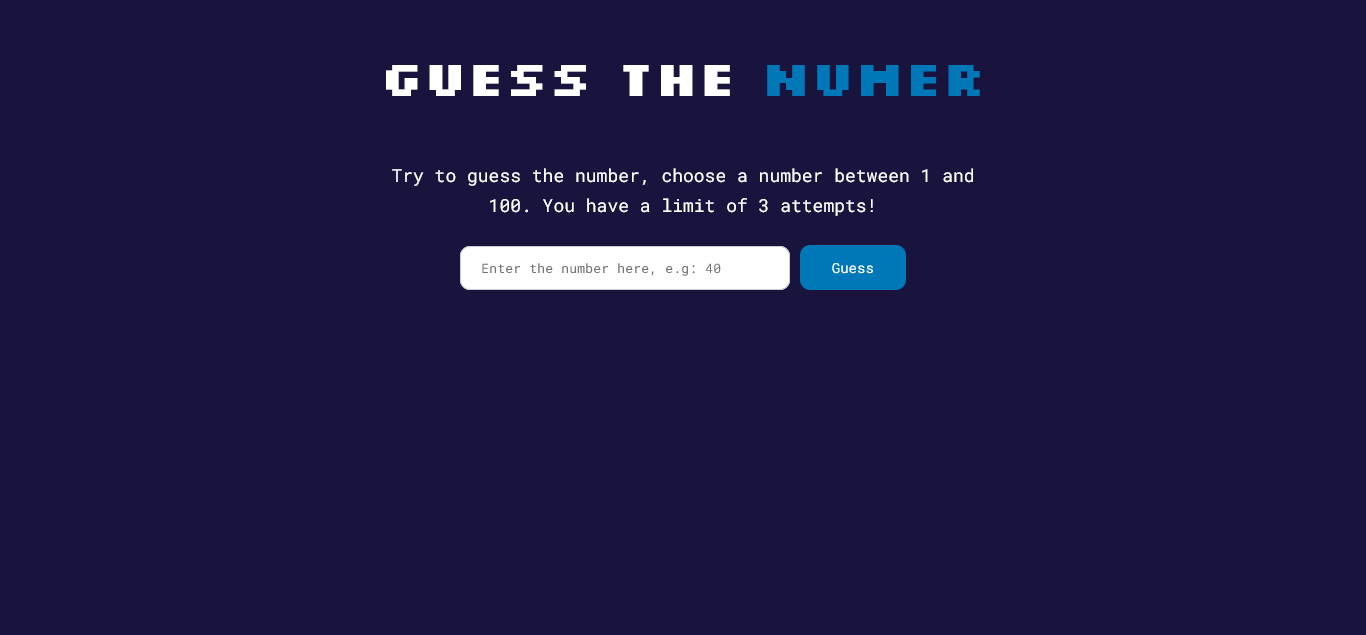
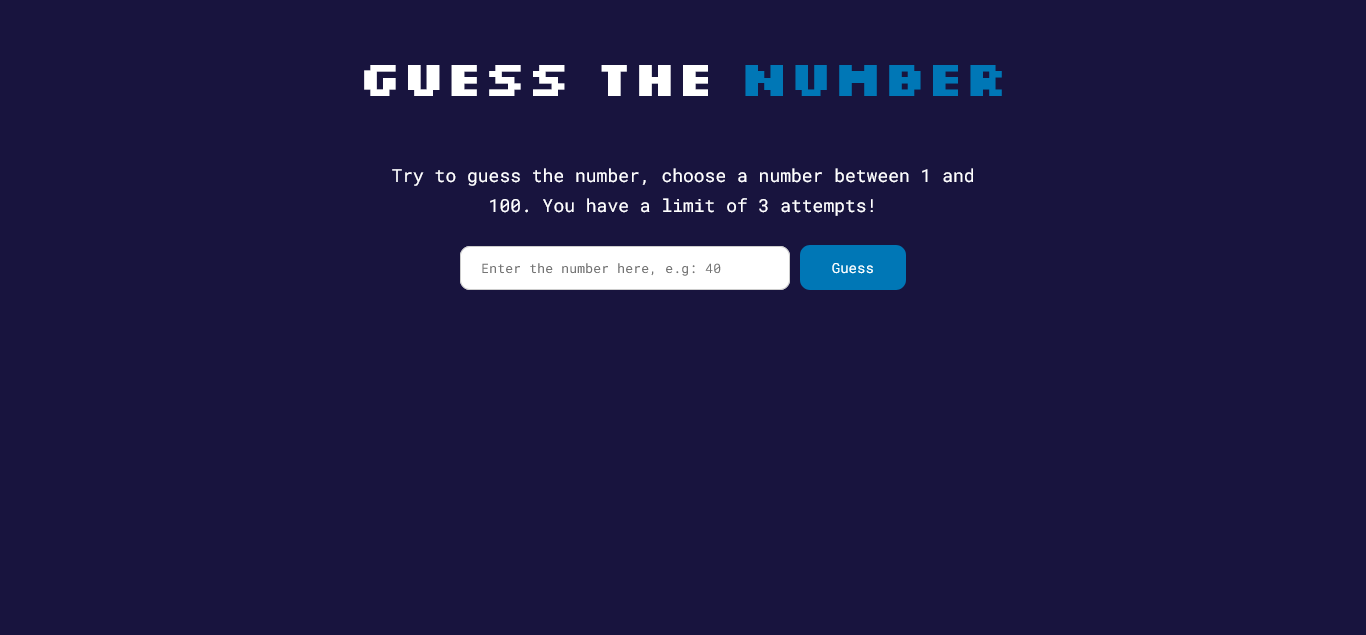
fix: correct word number in d12

Changed region(s): [[0.246, 0.0898, 0.7379, 0.1496]]

diff --git a/challenges/day12.html b/challenges/day12.html
@@ -16,7 +16,7 @@
 
 <body id="confetti-container">
     <header>
-        <h1 class="silkscreen-bold">GUESS THE <span>NUMER</span></h1>
+        <h1 class="silkscreen-bold">GUESS THE <span>NUMBER</span></h1>
     </header>
     <main class="roboto-mono">
         <section class="input-section">
